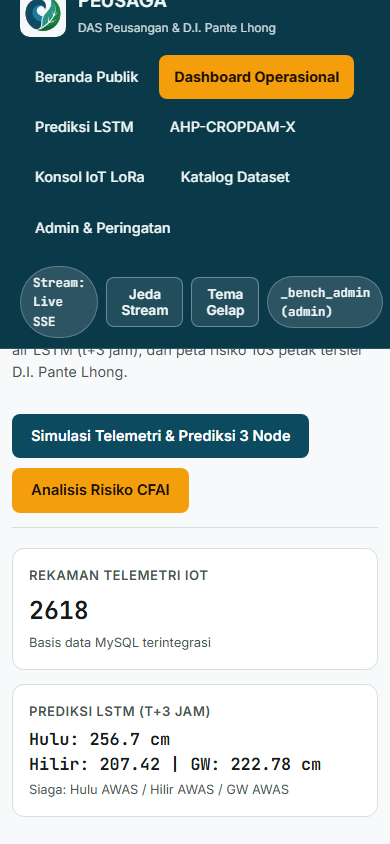
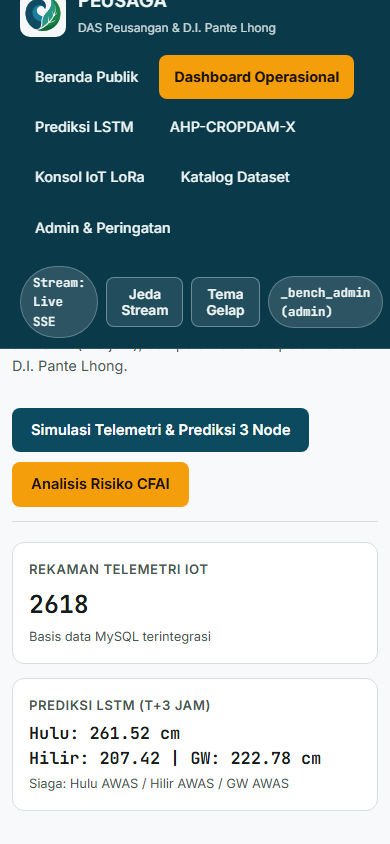
chore: sync updated LSTM plot label and latest system testing results

diff --git a/peusaga_app/services/data_catalog_service.py b/peusaga_app/services/data_catalog_service.py
@@ -33,7 +33,7 @@ PLOT_DESCRIPTIONS: Dict[str, str] = {
     "01_eda_seri_waktu_tma.png": "Seri waktu harian TMA Keureuto (2015-2024) & sub-harian Krueng Simpo.",
     "02_perbandingan_prediksi_harian.png": "Komparasi performa model LSTM skala harian (A1-A4).",
     "03_perbandingan_interpolasi_1h.png": "Evaluasi metode interpolasi temporal PCHIP vs Linear & Spline.",
-    "04_best_hourly_lstm_result.png": "Hasil evaluasi model LSTM terbaik per jam (C2_Ablasi_Units_256_128, t+3 jam).",
+    "04_best_hourly_lstm_result.png": "Hasil evaluasi model LSTM terbaik per jam (C2_Ablation_Units_256_128_Adam_1e-3, t+3 jam).",
     "05_uji_lapangan_iot_zeroshot.png": "Validasi zero-shot pada data uji lapangan IoT DAS Peusangan.",
     "01_ahp_bobot_kriteria.png": "Struktur hirarki bobot global AHP konsolidasi 5 pakar (CR = 0.00000).",
     "02_cropdamx_kurva_kerentanan.png": "Kurva kerentanan logistik CROPDAM-X & validasi Random Forest / Bayesian Ridge.",

diff --git a/docs/system_testing/Laporan_Pengujian_Sistem.md b/docs/system_testing/Laporan_Pengujian_Sistem.md
@@ -1,8 +1,8 @@
 # Laporan Pengujian Sistem PEUSAGA Fullstack
 
-- **Waktu Eksekusi**: 2026-11-16 16:09:50 WIB
+- **Waktu Eksekusi**: 2026-11-16 17:41:03 WIB
 - **Lingkungan Pengujian**: Python 3.12, Flask + SQLAlchemy, MySQL 8.0, TensorFlow/Keras, Leaflet `L.canvas()`, Google Chrome Headless
-- **Ringkasan Kelulusan Fungsional**: **31/31 Kasus Uji LULUS** (`exit_code=0`, durasi `81.23 detik`)
+- **Ringkasan Kelulusan Fungsional**: **31/31 Kasus Uji LULUS** (`exit_code=0`, durasi `11.72 detik`)
 
 ## 1. Arsitektur Alur Pengujian Sistem
 ```mermaid
@@ -22,21 +22,21 @@ $$P_{95} = l_{\lfloor k \rfloor} + (k - \lfloor k \rfloor) \cdot (l_{\lceil k \r
 ## 2. Hasil Benchmark Waktu Respon (N = 20 Iterasi per Endpoint)
 | Metode | Endpoint | Deskripsi | HTTP | Payload | Min (ms) | Rata-rata (ms) | Median (ms) | P95 (ms) | Maks (ms) |
 | :--- | :--- | :--- | :---: | :---: | :---: | :---: | :---: | :---: | :---: |
-| `GET` | `/` | Landing Page Publik | `200` | 18,268 B | 20.08 | **21.51** | 21.73 | 22.23 | 22.89 |
-| `GET` | `/login` | Halaman Login Admin | `200` | 21,977 B | 25.85 | **28.05** | 27.96 | 30.19 | 30.98 |
-| `GET` | `/api/status` | API Publik Status 3 Node | `200` | 6,052 B | 9.40 | **10.07** | 10.06 | 10.79 | 11.09 |
-| `GET` | `/api/gis/layers` | API WebGIS (103 Blok + 2.628 Sawah CAD) | `200` | 3,009,254 B | 108.91 | **121.82** | 120.01 | 134.88 | 163.16 |
-| `GET` | `/api/gis/cad-extras` | API Lazy-Load CAD Sekunder | `200` | 4,718,341 B | 218.87 | **243.39** | 238.48 | 276.99 | 282.69 |
-| `GET` | `/dashboard` | Dashboard Operasional WebGIS | `200` | 21,977 B | 18.35 | **19.15** | 18.93 | 20.05 | 20.71 |
-| `GET` | `/ai-lstm` | Halaman Prediksi AI-LSTM | `200` | 47,702 B | 15.07 | **15.73** | 15.54 | 16.97 | 17.37 |
-| `GET` | `/cropdamx` | Halaman Analisis AHP-CROPDAM-X | `200` | 73,564 B | 14.55 | **15.65** | 15.73 | 16.34 | 16.51 |
-| `GET` | `/console` | Halaman Konsol Teknis & LoRa | `200` | 61,160 B | 15.81 | **16.95** | 16.78 | 17.94 | 18.71 |
-| `GET` | `/datasets` | Halaman Katalog Dataset | `200` | 189,401 B | 958.18 | **1022.64** | 993.80 | 1133.11 | 1148.07 |
-| `GET` | `/admin` | Halaman Administrasi & Kalibrasi | `200` | 36,015 B | 12.89 | **13.93** | 13.81 | 14.73 | 14.80 |
-| `GET` | `/api/telemetry?limit=50` | API Telemetri Historis (50 baris) | `200` | 16,109 B | 8.55 | **9.26** | 9.26 | 9.85 | 9.95 |
-| `POST` | `/api/predict` | API Inferensi Keras LSTM (node_hulu) | `200` | 361 B | 70.06 | **75.97** | 75.61 | 83.64 | 84.13 |
-| `POST` | `/api/risk/cropdamx` | API Evaluasi & Surrogate AHP-CROPDAM-X | `200` | 1,456 B | 36.64 | **41.29** | 39.41 | 50.29 | 51.42 |
-| `POST` | `/api/lora/link-budget` | API Kalkulator Link Budget LoRa | `200` | 300 B | 5.88 | **6.65** | 6.63 | 7.57 | 8.24 |
+| `GET` | `/` | Landing Page Publik | `200` | 18,268 B | 20.82 | **24.20** | 23.58 | 29.50 | 40.17 |
+| `GET` | `/login` | Halaman Login Admin | `200` | 21,977 B | 26.46 | **28.81** | 28.70 | 32.02 | 32.75 |
+| `GET` | `/api/status` | API Publik Status 3 Node | `200` | 6,052 B | 10.04 | **11.21** | 11.06 | 12.31 | 12.88 |
+| `GET` | `/api/gis/layers` | API WebGIS (103 Blok + 2.628 Sawah CAD) | `200` | 3,009,254 B | 108.54 | **121.45** | 116.60 | 140.82 | 164.56 |
+| `GET` | `/api/gis/cad-extras` | API Lazy-Load CAD Sekunder | `200` | 4,718,341 B | 214.13 | **227.52** | 226.67 | 236.76 | 243.55 |
+| `GET` | `/dashboard` | Dashboard Operasional WebGIS | `200` | 21,977 B | 20.28 | **21.82** | 21.60 | 23.20 | 23.28 |
+| `GET` | `/ai-lstm` | Halaman Prediksi AI-LSTM | `200` | 47,726 B | 15.91 | **18.36** | 18.25 | 20.75 | 21.33 |
+| `GET` | `/cropdamx` | Halaman Analisis AHP-CROPDAM-X | `200` | 73,564 B | 15.85 | **17.15** | 17.13 | 18.85 | 19.07 |
+| `GET` | `/console` | Halaman Konsol Teknis & LoRa | `200` | 61,160 B | 16.45 | **18.07** | 17.90 | 20.75 | 21.52 |
+| `GET` | `/datasets` | Halaman Katalog Dataset | `200` | 189,425 B | 958.42 | **1026.50** | 1020.55 | 1083.88 | 1165.69 |
+| `GET` | `/admin` | Halaman Administrasi & Kalibrasi | `200` | 36,015 B | 12.24 | **13.55** | 12.95 | 16.12 | 16.18 |
+| `GET` | `/api/telemetry?limit=50` | API Telemetri Historis (50 baris) | `200` | 16,109 B | 9.76 | **10.36** | 10.28 | 11.00 | 11.00 |
+| `POST` | `/api/predict` | API Inferensi Keras LSTM (node_hulu) | `200` | 362 B | 65.63 | **72.11** | 70.98 | 83.02 | 87.03 |
+| `POST` | `/api/risk/cropdamx` | API Evaluasi & Surrogate AHP-CROPDAM-X | `200` | 1,456 B | 35.24 | **37.85** | 37.50 | 41.07 | 43.04 |
+| `POST` | `/api/lora/link-budget` | API Kalkulator Link Budget LoRa | `200` | 300 B | 5.69 | **6.12** | 6.11 | 6.47 | 6.59 |
 
 ## 3. Hasil Pengujian Fungsional, Keamanan, AI & WebGIS
 | No | Kasus Uji | Status | Rincian Hasil |
@@ -44,14 +44,14 @@ $$P_{95} = l_{\lfloor k \rfloor} + (k - \lfloor k \rfloor) \cdot (l_{\lceil k \r
 | 1 | Logo PNG Transparan | **PASS** | size=(512, 512), mode=RGBA, corner_alpha=0 |
 | 2 | MySQL Baseline Seeding | **PASS** | parcels=103 (5853.74 ha), telemetry=2618, flood_events=326 |
 | 3 | Posisi Baru 3 Node Pante Lhong | **PASS** | coords_ok=True, old_pos_count=0 |
-| 4 | Prediksi Historis & Keras 3 Node | **PASS** | total_per_node={'node_gateway': 871, 'node_hilir': 873, 'node_hulu': 2837}, keras_per_node={'node_gateway': 1, 'node_hilir': 1, 'node_hulu': 89} |
+| 4 | Prediksi Historis & Keras 3 Node | **PASS** | total_per_node={'node_gateway': 871, 'node_hilir': 873, 'node_hulu': 2859}, keras_per_node={'node_gateway': 1, 'node_hilir': 1, 'node_hulu': 111} |
 | 5 | HTML Route / | **PASS** | HTTP 200, h1=1, emdash=False, svg=False, clean=True |
 | 6 | Landing Page Humanize & Pemisahan Menu Pengunjung | **PASS** | humanized=True, admin_menu_leaked=False |
 | 7 | HTML Route /login | **PASS** | HTTP 200, h1=1, emdash=False, svg=False, clean=True |
 | 8 | Route Guard & Proteksi API Tanpa Login | **PASS** | redirects_302=True, unauth_api=[401,401,401,401] |
 | 9 | API Publik Landing Page (/api/status) | **PASS** | HTTP=200, nodes=3, overall=AWAS |
-| 10 | Ingesti JSON /api (Tanpa Login Browser) | **PASS** | {'alert_level': 'SIAGA', 'cfai_score': 0.2767, 'node_id': 'node_hulu', 'pred_plus_3h_cm': 164.56, 'risk_category': 'Rendah', 'status': 'ok', 'timestamp': '2026-11-16 16:07:07', 'water_level_cm': 157.4} |
-| 11 | Ingesti Arduino CSV /api_ews.php | **PASS** | {'alert_level': 'SIAGA', 'cfai_score': 0.2767, 'node_id': 'node_hilir', 'pred_plus_3h_cm': 133.45, 'risk_category': 'Rendah', 'status': 'ok', 'timestamp': '2026-11-16 16:08:12', 'water_level_cm': 120.0} |
+| 10 | Ingesti JSON /api (Tanpa Login Browser) | **PASS** | {'alert_level': 'AWAS', 'cfai_score': 0.2767, 'node_id': 'node_hulu', 'pred_plus_3h_cm': 179.87, 'risk_category': 'Rendah', 'status': 'ok', 'timestamp': '2026-11-16 17:39:35', 'water_level_cm': 157.4} |
+| 11 | Ingesti Arduino CSV /api_ews.php | **PASS** | {'alert_level': 'SIAGA', 'cfai_score': 0.2767, 'node_id': 'node_hilir', 'pred_plus_3h_cm': 134.51, 'risk_category': 'Rendah', 'status': 'ok', 'timestamp': '2026-11-16 17:39:37', 'water_level_cm': 120.0} |
 | 12 | Karantina SOS & Auth Hardware | **PASS** | SOS HTTP=202, Invalid HTTP=401 |
 | 13 | Autentikasi Login Admin (/login) | **PASS** | bad=401, good_redirect=/dashboard |
 | 14 | HTML Route /dashboard | **PASS** | HTTP 200, h1=1, emdash=False, svg=False, clean=True |
@@ -61,7 +61,7 @@ $$P_{95} = l_{\lfloor k \rfloor} + (k - \lfloor k \rfloor) \cdot (l_{\lceil k \r
 | 18 | HTML Route /console | **PASS** | HTTP 200, h1=1, emdash=False, svg=False, clean=True |
 | 19 | HTML Route /datasets | **PASS** | HTTP 200, h1=1, emdash=False, svg=False, clean=True |
 | 20 | HTML Route /admin | **PASS** | HTTP 200, h1=1, emdash=False, svg=False, clean=True |
-| 21 | Keras LSTM & Simulasi 3 Node | **PASS** | t+3h={'node_hulu': 164.56, 'node_hilir': 133.45, 'node_gateway': 217.74}, sim_all=3 node |
+| 21 | Keras LSTM & Simulasi 3 Node | **PASS** | t+3h={'node_hulu': 178.77, 'node_hilir': 136.85, 'node_gateway': 225.55}, sim_all=3 node |
 | 22 | AHP-CROPDAM-X & Surrogate | **PASS** | CFAI=0.5901, RF=0.598, sigma=0.5747 |
 | 23 | Filter Petak Tersier | **PASS** | matched=3 |
 | 24 | WebGIS Multi-Layer Payload | **PASS** | iot_nodes=3, parcels=103, cad_sawah=2628, structures=137, channels=400, boundaries=364 |
@@ -76,19 +76,19 @@ $$P_{95} = l_{\lfloor k \rfloor} + (k - \lfloor k \rfloor) \cdot (l_{\lceil k \r
 ## 4. Metrik Antarmuka Browser & Responsivitas
 | Berkas Tangkapan Layar | Halaman / Skenario | Viewport | Tema | DOM Ready (ms) | Load (ms) | Overflow (px) | Ukuran |
 | :--- | :--- | :--- | :---: | :---: | :---: | :---: | :---: |
-| `01_landing_light_desktop.png` | Landing Page Publik (Terang) | Desktop 1440x900 | Light | 1109 | 2503 | 0 | 1006.5 KB |
-| `02_landing_dark_desktop.png` | Landing Page Publik (Gelap) | Desktop 1440x900 | Dark | 1109 | 2503 | 0 | 1017.6 KB |
-| `04_login_desktop.png` | Halaman Login Admin | Desktop 1440x900 | Light | 51 | 51 | 0 | 70.3 KB |
-| `03_landing_mobile.png` | Landing Page Publik (Mobile) | Mobile 390x844 | Light | 699 | 1606 | 0 | 68.6 KB |
-| `05_dashboard_light_desktop.png` | Dashboard WebGIS (2.628 Sawah CAD) | Desktop 1440x900 | Light | 195 | 199 | 0 | 1094.5 KB |
-| `06_dashboard_cad_extras_desktop.png` | Dashboard WebGIS (Lapisan CAD Lengkap) | Desktop 1440x900 | Light | 195 | 199 | 0 | 566.9 KB |
-| `07_dashboard_dark_desktop.png` | Dashboard WebGIS (Tema Gelap) | Desktop 1440x900 | Dark | 195 | 199 | 0 | 1140.0 KB |
-| `08_dashboard_mobile.png` | Dashboard WebGIS (Mobile) | Mobile 390x844 | Light | 74 | 76 | 192 | 59.6 KB |
-| `09_ai_lstm_desktop.png` | Modul Prediksi AI-LSTM (3 Node) | Desktop 1440x900 | Light | 88 | 89 | 0 | 673.9 KB |
-| `10_cropdamx_desktop.png` | Modul Risiko AHP-CROPDAM-X | Desktop 1440x900 | Light | 67 | 68 | 0 | 445.4 KB |
-| `11_console_desktop.png` | Konsol Teknis & Link Budget LoRa | Desktop 1440x900 | Light | 64 | 65 | 0 | 511.2 KB |
-| `12_datasets_desktop.png` | Katalog Dataset & Artefak Riset | Desktop 1440x900 | Light | 1236 | 1237 | 0 | 897.4 KB |
-| `13_admin_desktop.png` | Administrasi Node, Poktan & Audit | Desktop 1440x900 | Light | 56 | 58 | 0 | 245.1 KB |
+| `01_landing_light_desktop.png` | Landing Page Publik (Terang) | Desktop 1440x900 | Light | 349 | 603 | 0 | 1006.7 KB |
+| `02_landing_dark_desktop.png` | Landing Page Publik (Gelap) | Desktop 1440x900 | Dark | 349 | 603 | 0 | 1017.5 KB |
+| `04_login_desktop.png` | Halaman Login Admin | Desktop 1440x900 | Light | 45 | 45 | 0 | 70.3 KB |
+| `03_landing_mobile.png` | Landing Page Publik (Mobile) | Mobile 390x844 | Light | 253 | 384 | 0 | 67.1 KB |
+| `05_dashboard_light_desktop.png` | Dashboard WebGIS (2.628 Sawah CAD) | Desktop 1440x900 | Light | 215 | 219 | 0 | 1094.4 KB |
+| `06_dashboard_cad_extras_desktop.png` | Dashboard WebGIS (Lapisan CAD Lengkap) | Desktop 1440x900 | Light | 215 | 219 | 0 | 567.1 KB |
+| `07_dashboard_dark_desktop.png` | Dashboard WebGIS (Tema Gelap) | Desktop 1440x900 | Dark | 215 | 219 | 0 | 1139.9 KB |
+| `08_dashboard_mobile.png` | Dashboard WebGIS (Mobile) | Mobile 390x844 | Light | 70 | 72 | 192 | 57.1 KB |
+| `09_ai_lstm_desktop.png` | Modul Prediksi AI-LSTM (3 Node) | Desktop 1440x900 | Light | 79 | 80 | 0 | 663.2 KB |
+| `10_cropdamx_desktop.png` | Modul Risiko AHP-CROPDAM-X | Desktop 1440x900 | Light | 63 | 64 | 0 | 452.6 KB |
+| `11_console_desktop.png` | Konsol Teknis & Link Budget LoRa | Desktop 1440x900 | Light | 57 | 58 | 0 | 511.2 KB |
+| `12_datasets_desktop.png` | Katalog Dataset & Artefak Riset | Desktop 1440x900 | Light | 1180 | 1180 | 0 | 889.1 KB |
+| `13_admin_desktop.png` | Administrasi Node, Poktan & Audit | Desktop 1440x900 | Light | 48 | 50 | 0 | 245.1 KB |
 
 ## 5. Dokumentasi Tangkapan Layar Antarmuka
 ### Landing Page Publik (Terang) (Desktop 1440x900, Light)
